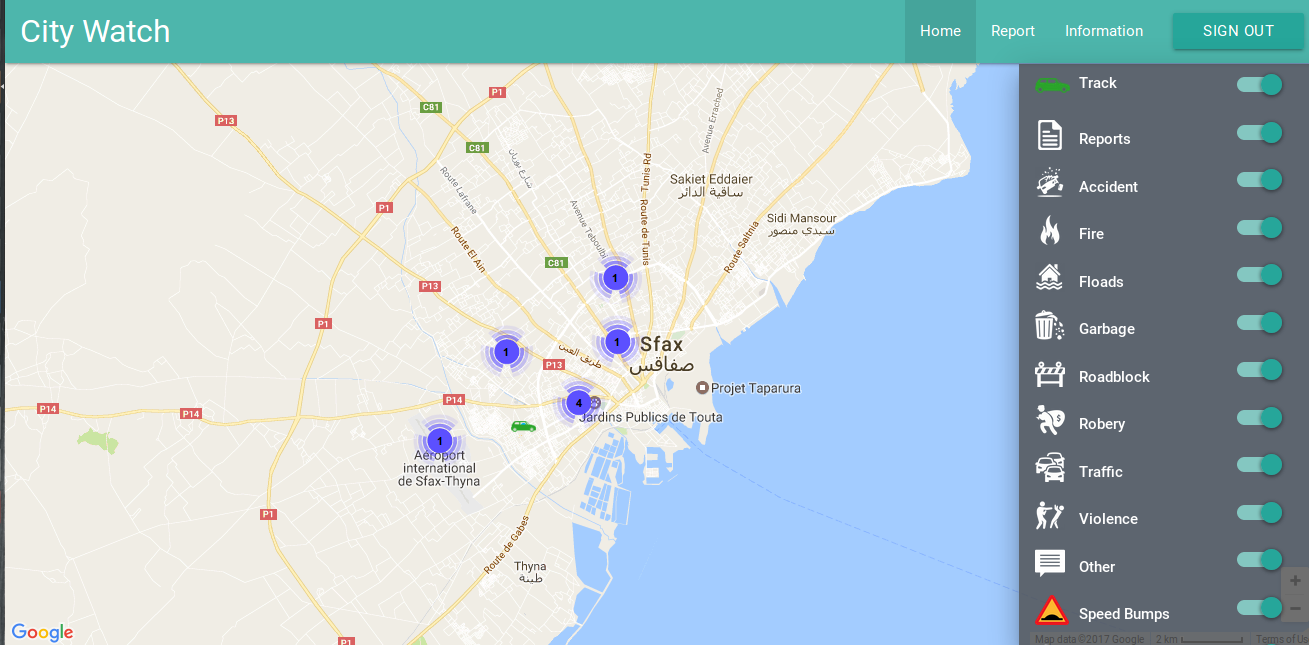
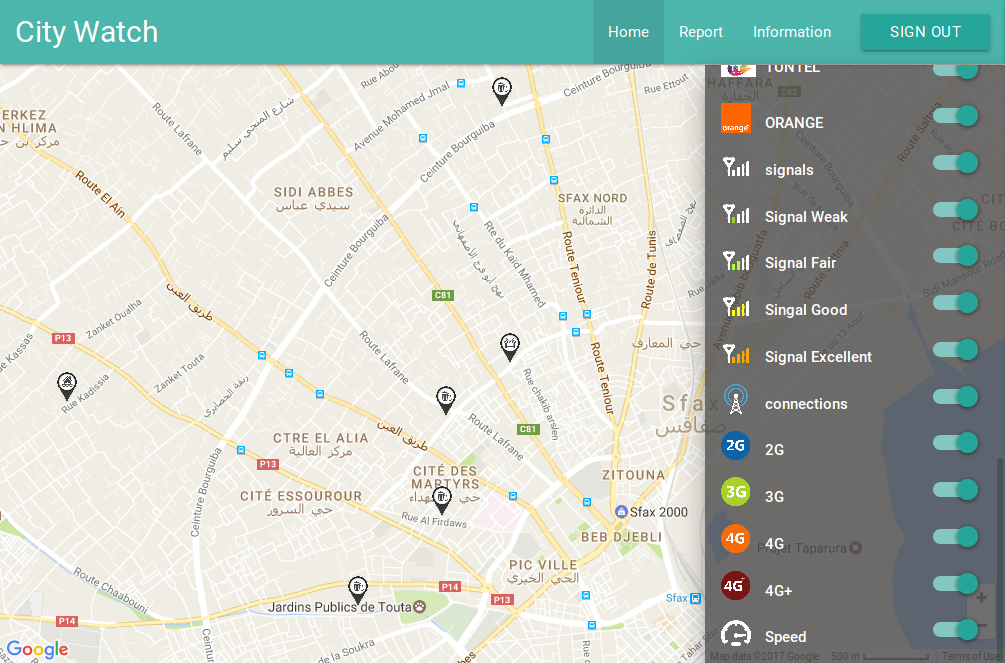
fix imges sprint3

diff --git a/33-sprint3.tex b/33-sprint3.tex
@@ -54,22 +54,22 @@ la qualité.
  \endlastfoot
 
 \hline
-1 & Integration Dashboard et Rapport dans l'application android & Implémenté la méthode qui affiche les pages ``Dashboard et Rapport'' chacun a un bouton spécifié   & 1 \\ \hline
-2 & Authentification Restful  & Ajouter l'authentification dans le serveur pour assurer la sécurité   & 1 \\ \hline
-3 & landing page & créer une nouvel page Web  & 3\\ \hline
-4 & Compte utilisateur & Base de données accecible depuis l'application et le web& 2 \\ \hline
-5 & Post réseau & Methode POST Restful & 1 \\ \hline
-6 & GET réseau & Methode GET Restful & 1 \\ \hline
-7 & Post vitesse & Methode POST vitesse & 1 \\ \hline
-8 & Get vitesse & Methode GET & 1 \\ \hline
-9 & Appplication Android Responsive & Responsive design coter android & 3 \\ \hline
-10 & IHM & l'ajout des boutons radio pour distinguer (pieton / voiture)(android) & 3 \\ \hline
-11 & Recherche Business intelligence & BI & 2 \\ \hline
-12 & Implantation des BD au BI & données accessible en BI & 2\\ \hline
-13 & création Logo &Ajouter Logo dans l'application & 3 \\ \hline
-14 & étude scénario commercial embouteillage & scénario de marketing& 2\\ \hline
-15 & Rectification chargement image & \ldots & 1 \\ \hline
-16 & étude scénario commercial secousses & scénario de marketing& 2\\ \hline
+3.1 & Integration Dashboard et Rapport dans l'application android & Implémenté la méthode qui affiche les pages ``Dashboard et Rapport'' chacun a un bouton spécifié   & 1 \\ \hline
+3.2 & Authentification Restful  & Ajouter l'authentification dans le serveur pour assurer la sécurité   & 1 \\ \hline
+3.3 & landing page & créer une nouvel page Web  & 3\\ \hline
+3.4 & Compte utilisateur & Base de données accecible depuis l'application et le web& 2 \\ \hline
+3.5 & Post réseau & Methode POST Restful & 1 \\ \hline
+3.6 & GET réseau & Methode GET Restful & 1 \\ \hline
+3.7 & Post vitesse & Methode POST vitesse & 1 \\ \hline
+3.8 & Get vitesse & Methode GET & 1 \\ \hline
+3.9 & Appplication Android Responsive & Responsive design coter android & 3 \\ \hline
+3.10 & IHM & l'ajout des boutons radio pour distinguer (pieton / voiture)(android) & 3 \\ \hline
+3.11 & Recherche Business intelligence & BI & 2 \\ \hline
+3.12 & Implantation des BD au BI & données accessible en BI & 2\\ \hline
+3.13 & création Logo &Ajouter Logo dans l'application & 3 \\ \hline
+3.14 & étude scénario commercial embouteillage & scénario de marketing& 2\\ \hline
+3.15 & Rectification chargement image & \ldots & 1 \\ \hline
+3.16 & étude scénario commercial secousses & scénario de marketing& 2\\ \hline
 \end{longtable}
 \end{center}
 
@@ -185,15 +185,27 @@ Dans cette page nous travaillons alors sur deux parties:
  \item la deuxième : gérés la communication interne entre serveur et la page.
  \end{itemize}
 Aussi,nous participons 80\% à l'ajout de légende a notre carte
-et afficher le filtrage des marqueurs.\\
+et affiche le filtrage des marqueurs.\\
 
 \begin{figure}[htbp]
+    \begin{subfigure}{.5\textwidth}
+    \centering
   \centering
-  \includegraphics[width=0.8\textwidth]{sprint3-dashboard-screenshot1}
-  \caption{Dashboard CityWatch au troisième itération}
+  \includegraphics[width=0.9\linewidth]{sprint3-dashboard-screenshot1}
+  \caption{Marqueurs activé}
   \label{fig:sprint3-dashboard-screenshot1}
+\end{subfigure}
+\begin{subfigure}{.5\textwidth}
+    \centering
+  \centering
+  \includegraphics[width=0.9\linewidth]{sprint3-dashboard-screenshot2}
+  \caption{Quelques marqueurs désactivé}
+  \label{sprint3-dashboard-screenshot2}
+\end{subfigure}
+\caption{Dashboard CityWatch au troisième itération}
 \end{figure}
 \clearpage
+
 \paragraph{Android}
 \paragraph*{}
 Les données captées par l'application mobile (Position , Secousses , Ralentisseur , Réseaux , force du 
@@ -201,17 +213,18 @@ signal et vitesse ) sont Récupérées par le serveur pour assurer la sauvegarde
 base données.\\
 
 \begin{figure}[htbp]
-    \begin{subfigure}{.5\textwidth}
+\centering
+    \begin{subfigure}{.3\textwidth}
     \centering
   \centering
-  \includegraphics[width=.8\linewidth]{sprint3-android-screenshot1}
+  \includegraphics[width=.9\linewidth]{sprint3-android-screenshot1}
   \caption{État désactivé}
   \label{fig:sprint3-android-screenshot1}
 \end{subfigure}
-\begin{subfigure}{.5\textwidth}
+\begin{subfigure}{.3\textwidth}
     \centering
   \centering
-  \includegraphics[width=.8\linewidth]{sprint3-android-screenshot2}
+  \includegraphics[width=.9\linewidth]{sprint3-android-screenshot2}
   \caption{État activé}
   \label{fig:sprint3-android-screenshot2}
 \end{subfigure}
@@ -225,7 +238,8 @@ Après la présentation du produit final, le \textquote{Product Owner} était tr
 a notre travail.
 
 \subsubsection{Burndown chart}
-
+La figure~\ref{fig:sprint3-burndown} présente une vue d'ensemble sur le progrès
+de notre travail au cours de l'itération par rapport au progrès idéal.
 \input{figures/sprint3-burndown}
 \subsection{Conclusion}
 
@@ -256,8 +270,8 @@ Get vitesse& Effectué 100\% \\ \hline
 Appplication Android Responsive & Effectué 100\% \\ \hline
 IHM & Effectué 100\% \\ \hline
 Recherche Business intelligence& Effectué 100\% \\ \hline
-Implantation des BD au BI & Effectué 100\% \\ \hline
-création Logo&  Effectué 100\% \\ \hline
+Implantation des BD au BI & Effectué 30\% \\ \hline
+création Logo&  Effectué 80\% \\ \hline
 Étude scénario commercial embouteillage& Effectué 100\% \\ \hline
 Rectification chargement image & Effectué 100\% \\ \hline
 Étude scénario commercial secousses &  Effectué 100\% \\ \hline

diff --git a/31-sprint1.tex b/31-sprint1.tex
@@ -97,17 +97,17 @@ demandé.
         \endlastfoot
 
         \hline
-1 & Présentation et Configuration SVN & Présenter SVN, installer le serveur SVN et créer les répertoires & 1 \\ \hline
-2 & Recherche sur les Services Web & Présenter les différentes Solutions des services web et choisir la meilleur solution & 1 \\ \hline
-3 & Implémenter service Save Position & Enregistrement les coordonnées requis dans la base de données & 2 \\ \hline
-4 & Implémenter la consommation du service Save Position & Coordonnées enregistrés instantané et continuellement dans la BD & 1 \\ \hline
-5 & Recherche sur les spécifications de la plateforme Android & Présenter le modèle de développement Android et choisir le SDK optimale & 1 \\ \hline
-6 & Création squelette de l'application mobile & Application fonctionnel (sans les fonctions de localisation) avec l'IHM nécessaire et l'intégration au SVN & 1 \\ \hline
-7 & Implémenter service Get Last Position & Le serveur retourne les dernières coordonnées requis & 1 \\ \hline
-8 & Rectification service Save Positon & Support multiple périphériques et enregistrer la date d'envoyé & 2 \\ \hline
-9 & Rectification service Get Last Position & Retourné la position du périphérique et la date du dernier modification & 2 \\ \hline
-10 & Affiche Multiple marqueurs & Afficher dernière position de chaque périphérique dans la carte & 2 \\ \hline
-11 & Affiche état du périphérique & Afficher si le périphérique est en ligne ou hors ligne & 3 \\ \hline
+1.1 & Présentation et Configuration SVN & Présenter SVN, installer le serveur SVN et créer les répertoires & 1 \\ \hline
+1.2 & Recherche sur les Services Web & Présenter les différentes Solutions des services web et choisir la meilleur solution & 1 \\ \hline
+1.3 & Implémenter service Save Position & Enregistrement les coordonnées requis dans la base de données & 2 \\ \hline
+1.4 & Implémenter la consommation du service Save Position & Coordonnées enregistrés instantané et continuellement dans la BD & 1 \\ \hline
+1.5 & Recherche sur les spécifications de la plateforme Android & Présenter le modèle de développement Android et choisir le SDK optimale & 1 \\ \hline
+1.6 & Création squelette de l'application mobile & Application fonctionnel (sans les fonctions de localisation) avec l'IHM nécessaire et l'intégration au SVN & 1 \\ \hline
+1.7 & Implémenter service Get Last Position & Le serveur retourne les dernières coordonnées requis & 1 \\ \hline
+1.8 & Rectification service Save Positon & Support multiple périphériques et enregistrer la date d'envoyé & 2 \\ \hline
+1.9 & Rectification service Get Last Position & Retourné la position du périphérique et la date du dernier modification & 2 \\ \hline
+1.10 & Affiche Multiple marqueurs & Afficher dernière position de chaque périphérique dans la carte & 2 \\ \hline
+1.11 & Affiche état du périphérique & Afficher si le périphérique est en ligne ou hors ligne & 3 \\ \hline
     \end{longtable}
 \end{center}
 
@@ -185,7 +185,9 @@ respectivement. Les lignes colorés représentent nos taches. Les colonnes du
 tableau sont:
 
 \begin{description}
-    \item [Who] L'alias du nom du membre.
+    \item [Who] L'allias du nom de chaque membres de l'équipe .
+
+            \emph{Exemple }: RM signifie \textbf{R}ihab \textbf{M}ajdoub
     \item [À faire (Todo)] Les taches assignés au membres pour cette itération.
         L'échange des taches entre les membres est possible sur le supervision
         du Scrum Master.
@@ -441,7 +443,7 @@ Les exigence de l'api RESTful sont:
 \end{description}
 
 
-\subsection{Modélisation UML}
+\subsection{Conception}
 
 \begin{figure}[htbp]
     \centering

diff --git a/32-sprint2.tex b/32-sprint2.tex
@@ -74,17 +74,17 @@ Owner}.
         \endlastfoot
 
         \hline
-1 & Recherche sur les trajectoires & Comment présenter et enregistrer les trajectoire & 1 \\ \hline
-2 & Affichage du trajet sur la carte & Visualizer le trajectoire d'un périphérique comme un ligne & 1 \\ \hline
-3 & Implementer service d'enregsitrement des ralentisseurs & Enregistrer les données nécessaires pour représenter un ralentisseur & 1 \\ \hline
-4 & Responsive design & IHM de l'applicaiont Android adaptable aux differents résolutions et rotations & 2 \\ \hline
-5 & Implementer l'interface de déclaration un ralentisseur & Boutton rapport activé seulement si la localisation est active & 2 \\ \hline
-6 & Filtrage des marqueurs dans la carte & Légende simplifiée permettant de choisir les types de données affichés dans la carte & 1 \\ \hline
-7 & Implementer service de chargement de l'image & Charger, valider et enregistrer les images dans le serveur & 1 \\ \hline
-8 & Implementer la fonctionnalité de déclaration des rapports & Formulaire avec validation et service d'enregistrement dans le serveur & 1 \\ \hline
-9 & Recherche test unitaires & Comment améliorer la qualité du code et installation d'une solution des tests unitaires & 1 \\ \hline
-10 & Recherche sur les frameworks PHP & Choisir le framework optimal pour notre platform et faire la migration & 2 \\ \hline
-11 & Groupement de secousse sur la carte & Les marquers de secousses regroupés lors d'un zoom out sur la carte et séparer lors d'un zoom in & 3 \\ \hline
+2.1 & Recherche sur les trajectoires & Comment présenter et enregistrer les trajectoire & 1 \\ \hline
+2.2 & Affichage du trajet sur la carte & Visualizer le trajectoire d'un périphérique comme un ligne & 1 \\ \hline
+2.3 & Implementer service d'enregsitrement des ralentisseurs & Enregistrer les données nécessaires pour représenter un ralentisseur & 1 \\ \hline
+2.4 & Responsive design & IHM de l'applicaiont Android adaptable aux differents résolutions et rotations & 2 \\ \hline
+2.5 & Implementer l'interface de déclaration un ralentisseur & Boutton rapport activé seulement si la localisation est active & 2 \\ \hline
+2.6 & Filtrage des marqueurs dans la carte & Légende simplifiée permettant de choisir les types de données affichés dans la carte & 1 \\ \hline
+2.7 & Implementer service de chargement de l'image & Charger, valider et enregistrer les images dans le serveur & 1 \\ \hline
+2.8 & Implementer la fonctionnalité de déclaration des rapports & Formulaire avec validation et service d'enregistrement dans le serveur & 1 \\ \hline
+2.9 & Recherche test unitaires & Comment améliorer la qualité du code et installation d'une solution des tests unitaires & 1 \\ \hline
+2.10 & Recherche sur les frameworks PHP & Choisir le framework optimal pour notre platform et faire la migration & 2 \\ \hline
+2.11 & Groupement de secousse sur la carte & Les marquers de secousses regroupés lors d'un zoom out sur la carte et séparer lors d'un zoom in & 3 \\ \hline
     \end{longtable}
 \end{center}
 
@@ -403,7 +403,7 @@ Implementer service d’enregsitrement des ralentisseurs & Effectué 100\% \\ \h
 Responsive design & Effectué 80\% \\ \hline
 Implementer l’interface de déclaration d'un ralentisseur & Effectué 100\% \\ \hline
 Filtrage des marqueurs dans la carte & Effectué 100\% \\ \hline
-Implementer service de chargement de l'image & Effectué 80\% \\ \hline
+Implementer service de chargement de l'image & Effectué 70\% \\ \hline
 Implementer la fonctionnalité de déclaration des rapports & Effectué 100\% \\ \hline
 Recherche test unitaires & Effectué 80\% \\ \hline
 Recherche sur les frameworks PHP & Effectué 100\% \\ \hline

diff --git a/30-sprint0.tex b/30-sprint0.tex
@@ -252,6 +252,26 @@ utilisateurs.
         suivi.
 \end{itemize}
 
+\subsubsection{Here WeGo}
+
+\paragraph{Caractéristiques communes}
+
+\begin{itemize}
+ \item Détection de l'embouteillage.
+ \item Déclaration des rapport.
+ \item Carte en ligne.
+ \item Informer l'utilisateur en avance des incidents trouvé dans la route
+        suivi.
+\end{itemize}
+
+\subsubsection{Notre point fort}
+
+Notre application fusionne plusieurs fonctionnalités existantes dans d'autre application
+indépendante. En effet, l'utilisateur n'a pas besoin de télécharger plusieurs applications
+pour avoir ces fonctionnalités.
+Nous regrouperons tout ces fonctionnalités dans une seule plateforme simple et facile à
+utiliser.
+
 \subsection{Conclusion}
 
 L'itération 0 nous à permis de préparer le terrain pour une bonne entame de
